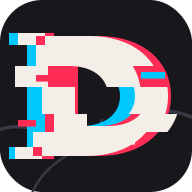
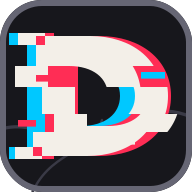
feat: ободок плитки знака — форма читается на тёмной панели (D186)
Раскатка forma bdf2787: светлый ободок #666674 у чёрной плитки, ровно 1 px
на 16 px. apple-touch и maskable не меняются.

Changed region(s): [[0.0, 0.0, 1.0, 1.0]]

diff --git a/src/web/static/SOURCE.md b/src/web/static/SOURCE.md
@@ -11,7 +11,7 @@
 | `decimus-domain.css` | `dodo/decimus/domain.css` | `f70045d` |
 | `fonts/*.woff2` (13 файлов) | `dodo/core/fonts/` | `f70045d` |
 | `icons.json` | `dodo/core/icons.json` | `f70045d` |
-| `mark-small.svg`, `icon-32.png`, `apple-touch-icon.png`, `icon-192.png`, `icon-512.png`, `icon-maskable-512.png` | `dodo/brand/decimus/` | `50352f6` (знак «Глитч-мрамор», 04.10.2026) |
+| `mark-small.svg`, `icon-32.png`, `apple-touch-icon.png`, `icon-192.png`, `icon-512.png`, `icon-maskable-512.png` | `dodo/brand/decimus/` | `bdf2787` (знак «Глитч-мрамор» 04.10.2026, ободок плитки 05.10.2026 — D186) |
 
 Знак продукта приехал 04.10.2026 (D185 в MERIDIUS, раздел от 04.10.2026 в
 `dodo/docs/decisions.md` forma) и заменил прежний `favicon.svg`. Геометрия —
